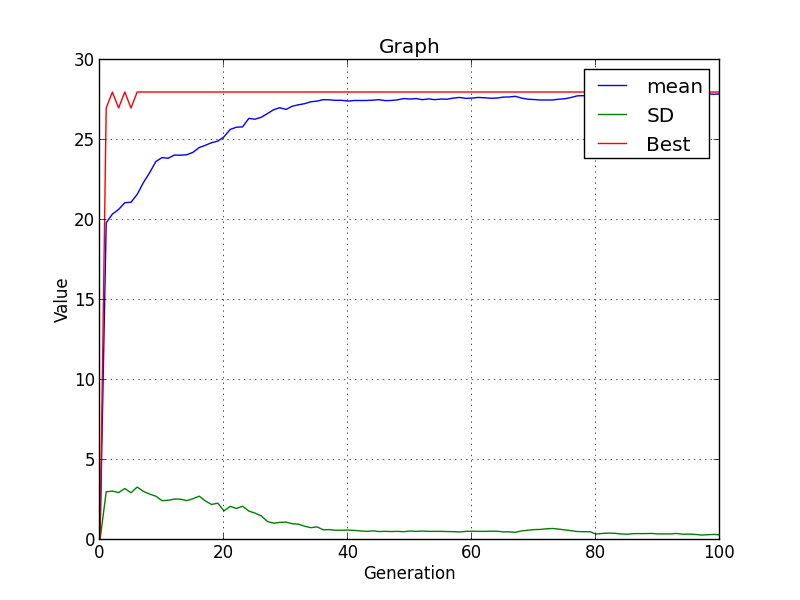
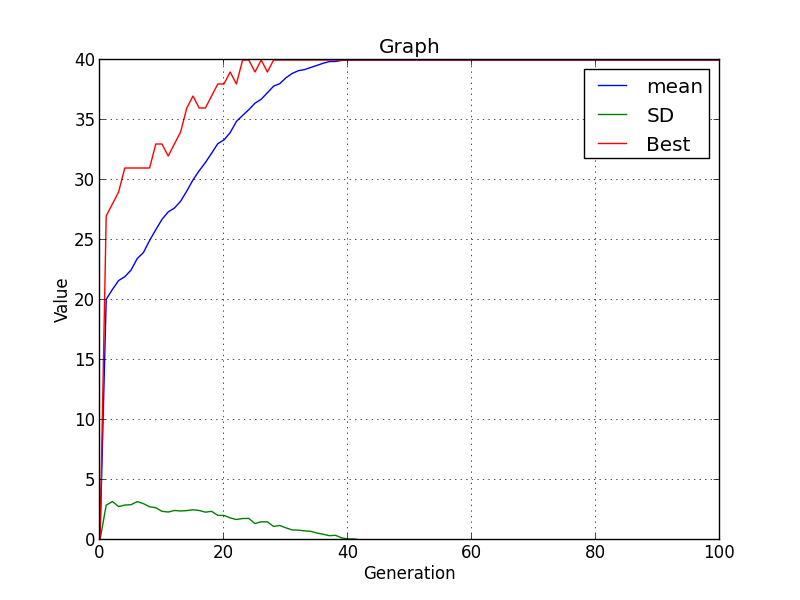
l

diff --git a/Individ.py b/Individ.py
@@ -10,13 +10,8 @@ import sys
 
 class Individ(object):
 
-<<<<<<< HEAD
-    mutationRate = 0.0
-    crossoverRate = 3.0
-=======
-    mutationRate = 0.01
-    crossoverRate = 0.5
->>>>>>> 33068cdf5a70e7c0946b35d47daed4dad01c5ddd
+    mutationRate = 0.00
+    crossoverRate = 0.3
     
     def __init__(self, blueprint, parents = [], crossovers = [], gray = False):
         self.fitness = 0

diff --git a/Evolution.py b/Evolution.py
@@ -29,7 +29,7 @@ class Evolution:
     elitismFactor = 0.0
     tournamentCount = 1
 
-    selectionStrategy = SelectionStrategy.Fitness
+    selectionStrategy = SelectionStrategy.Rank
     
     Boltz_T = 2
     Rank_Min = 0.5
